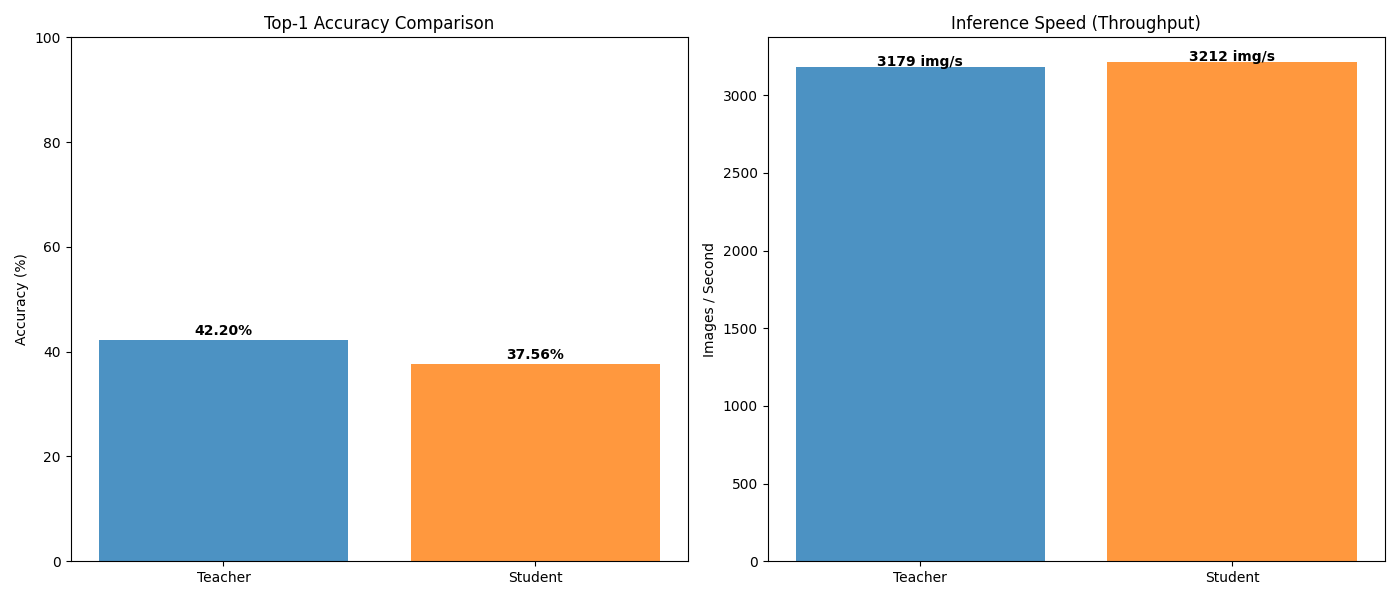
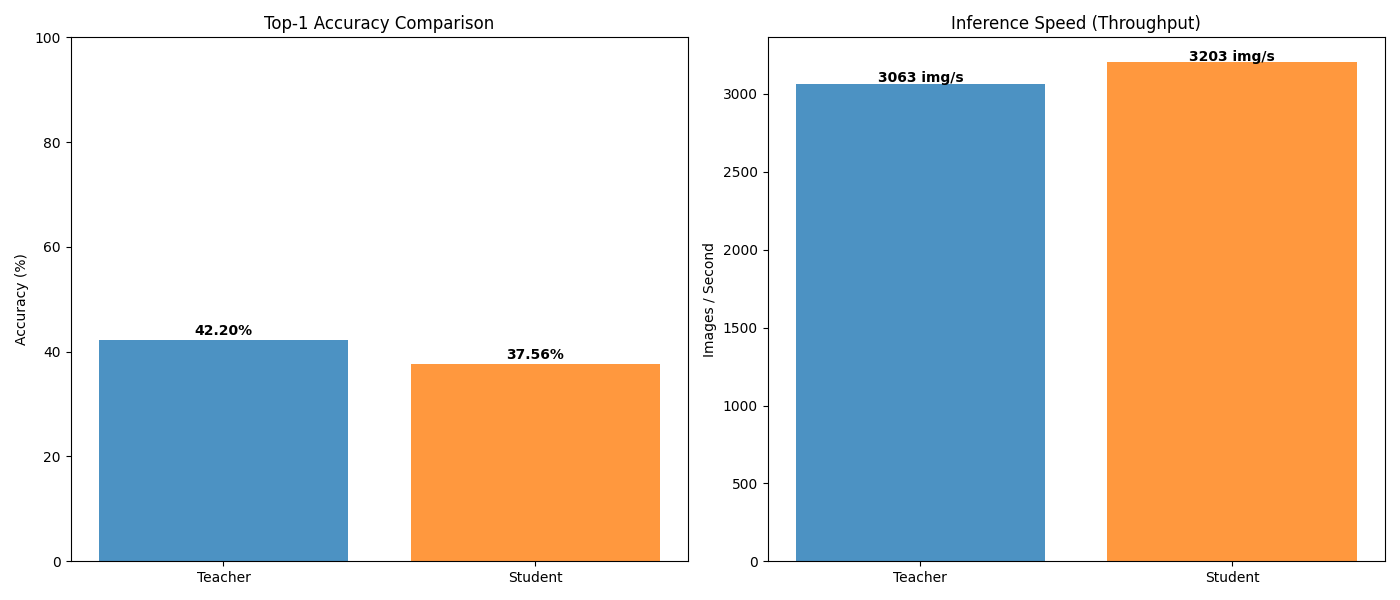
GPU perf

diff --git a/testing/test_imagenet.py b/testing/test_imagenet.py
@@ -388,7 +388,7 @@ if __name__ == "__main__":
         class_names, results_dir
     )
     plot_performance_comparison(
-        t_acc, s_acc, t_speed, s_speed, results_dir
+        t_acc, s_acc, t_speed, s_speed, results_dir, device="cuda"
     )
     plot_per_class_accuracy(
         confusion_matrix(t_labels, t_preds),
